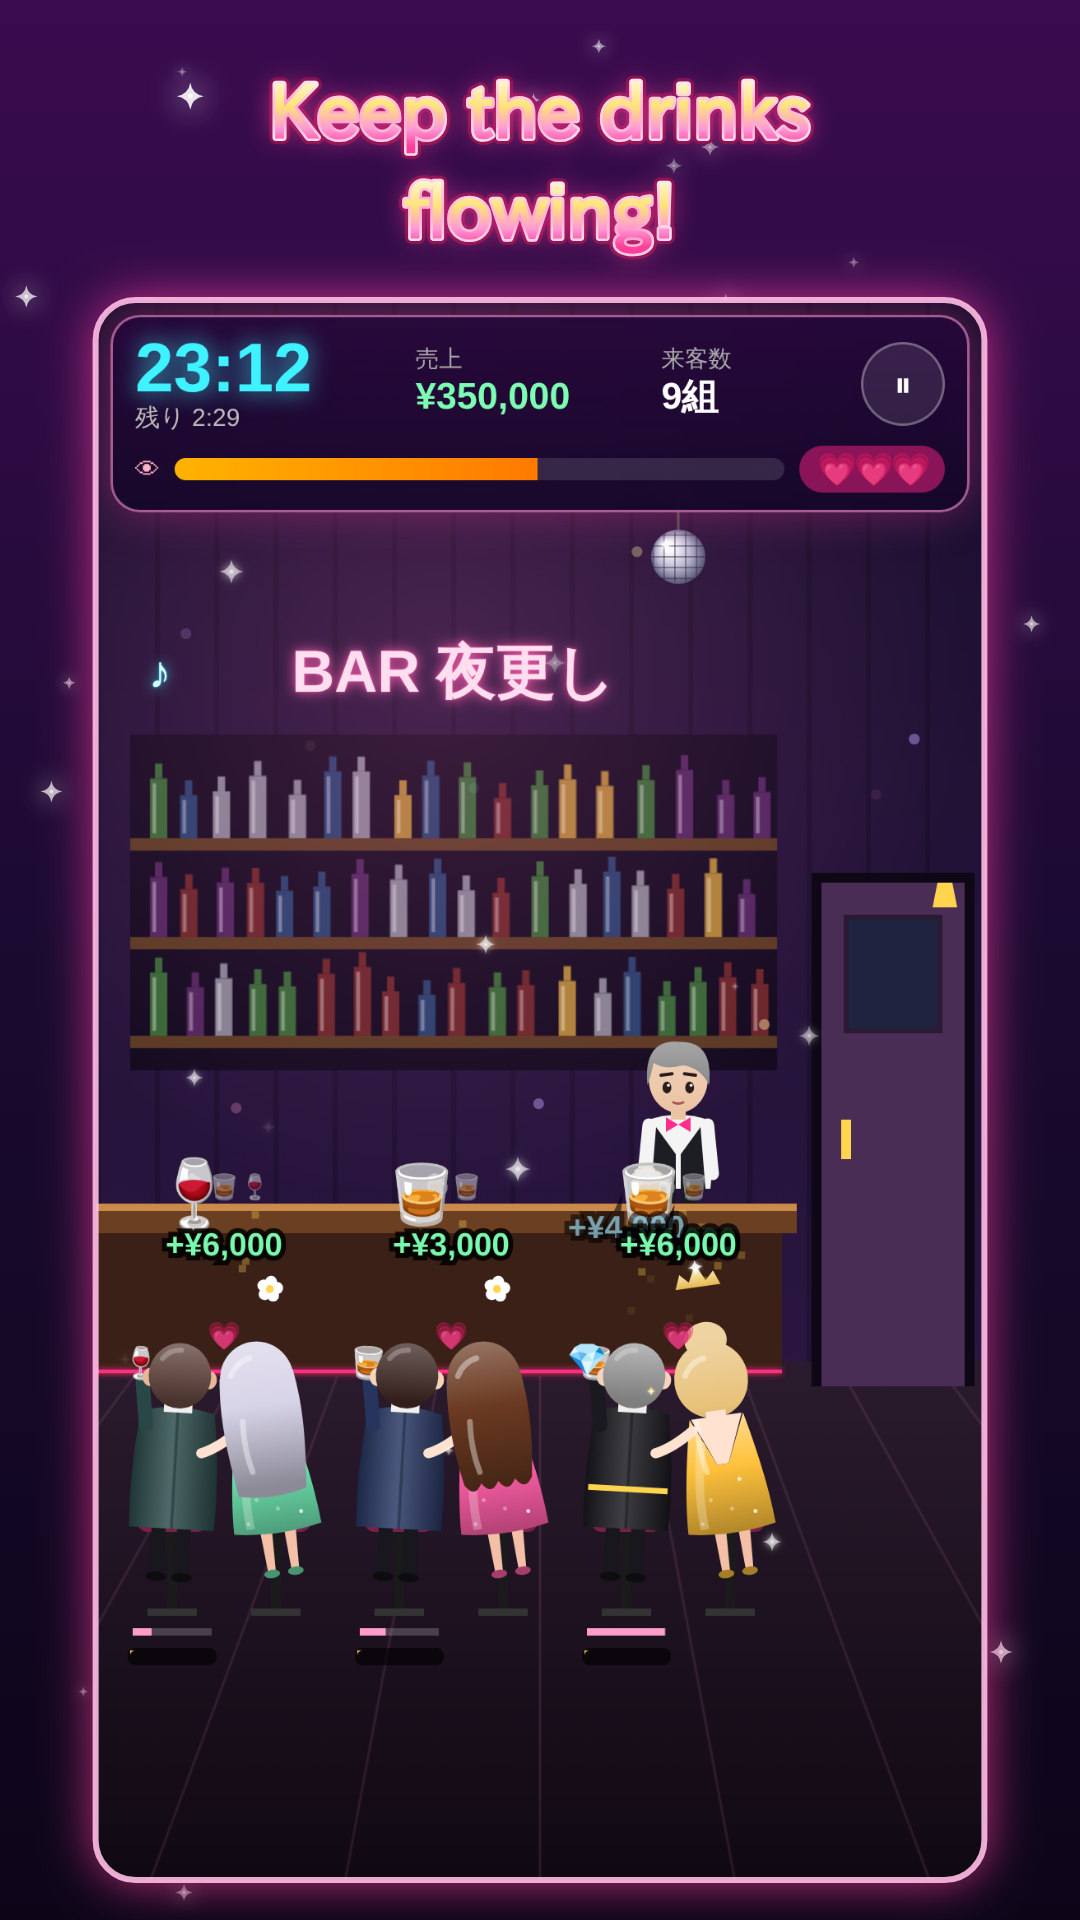
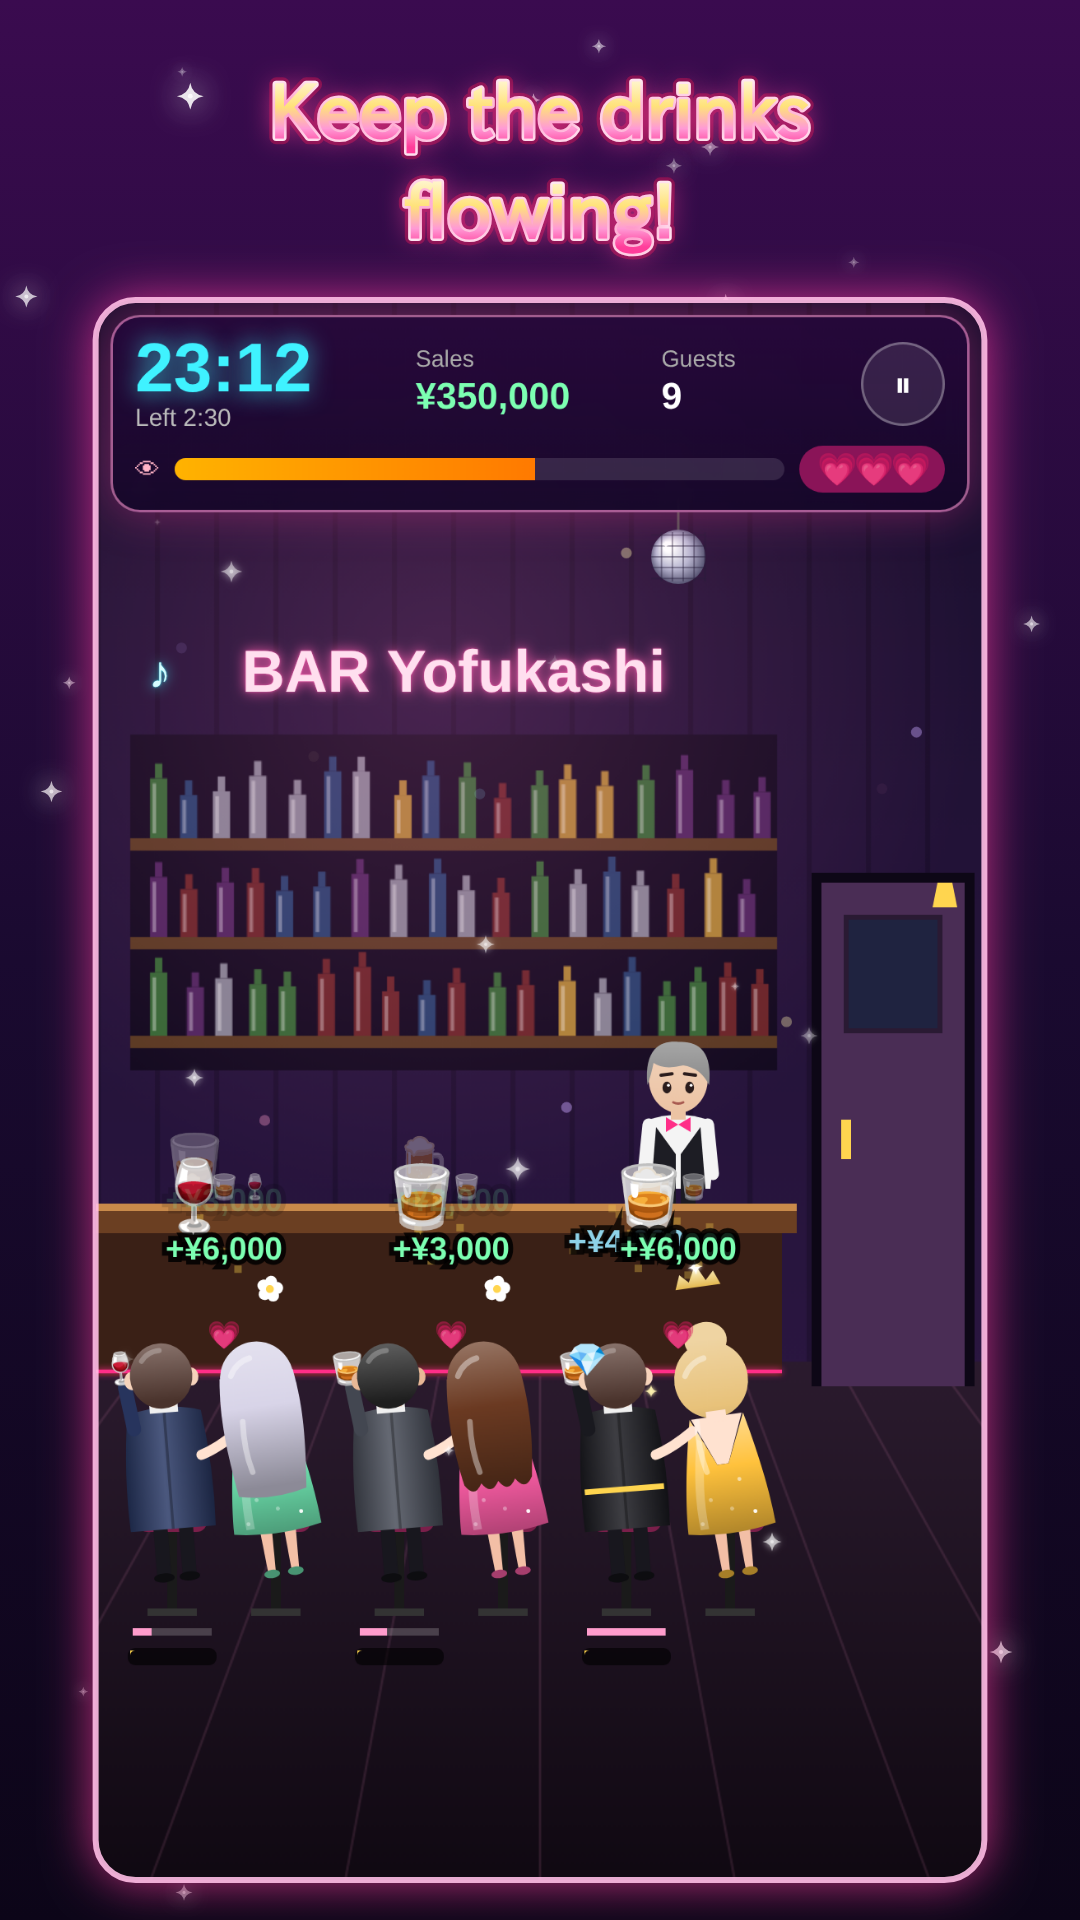
英語版のストア用スクリーンショットを英語の画面で撮り直し、リリースノートを追加
Claude-Session: https://claude.ai/code/session_01UXdYbojkM2CPzAVjAUPhX6

diff --git a/docs/store/listing.md b/docs/store/listing.md
@@ -127,6 +127,12 @@ Running such a business without a license is illegal in real life.
 
 ---
 
+## リリースノート
+
+`release-notes.txt` の内容を Play Console のリリースの「リリースノート」にそのまま貼り付けます。
+
+---
+
 ## Play Console「アプリのコンテンツ」の回答の目安
 
 - **プライバシー ポリシー**: https://techgym.jp/privacy-policy/
